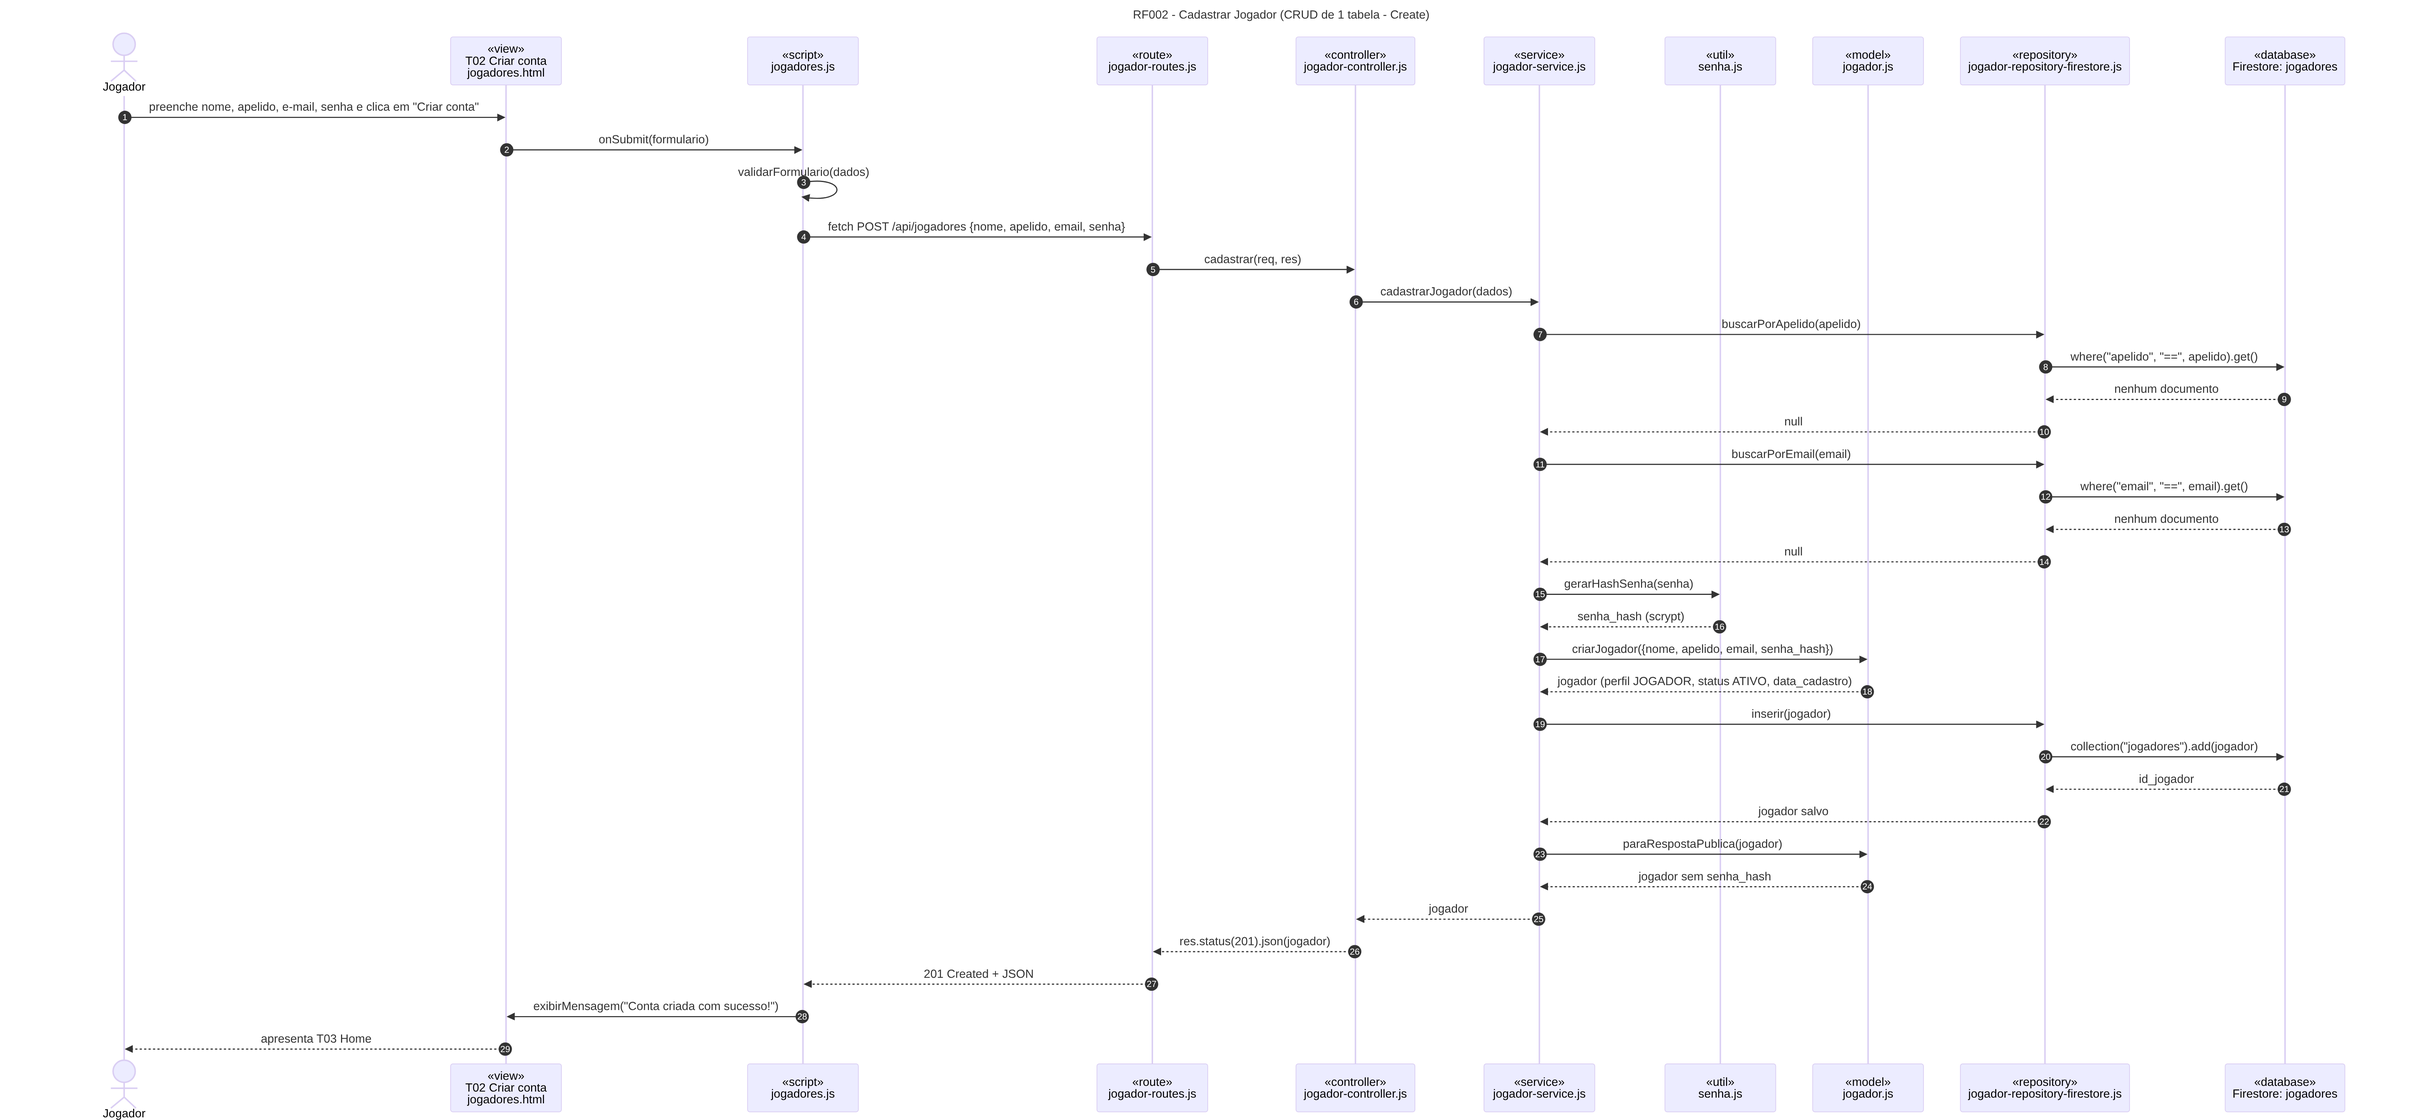
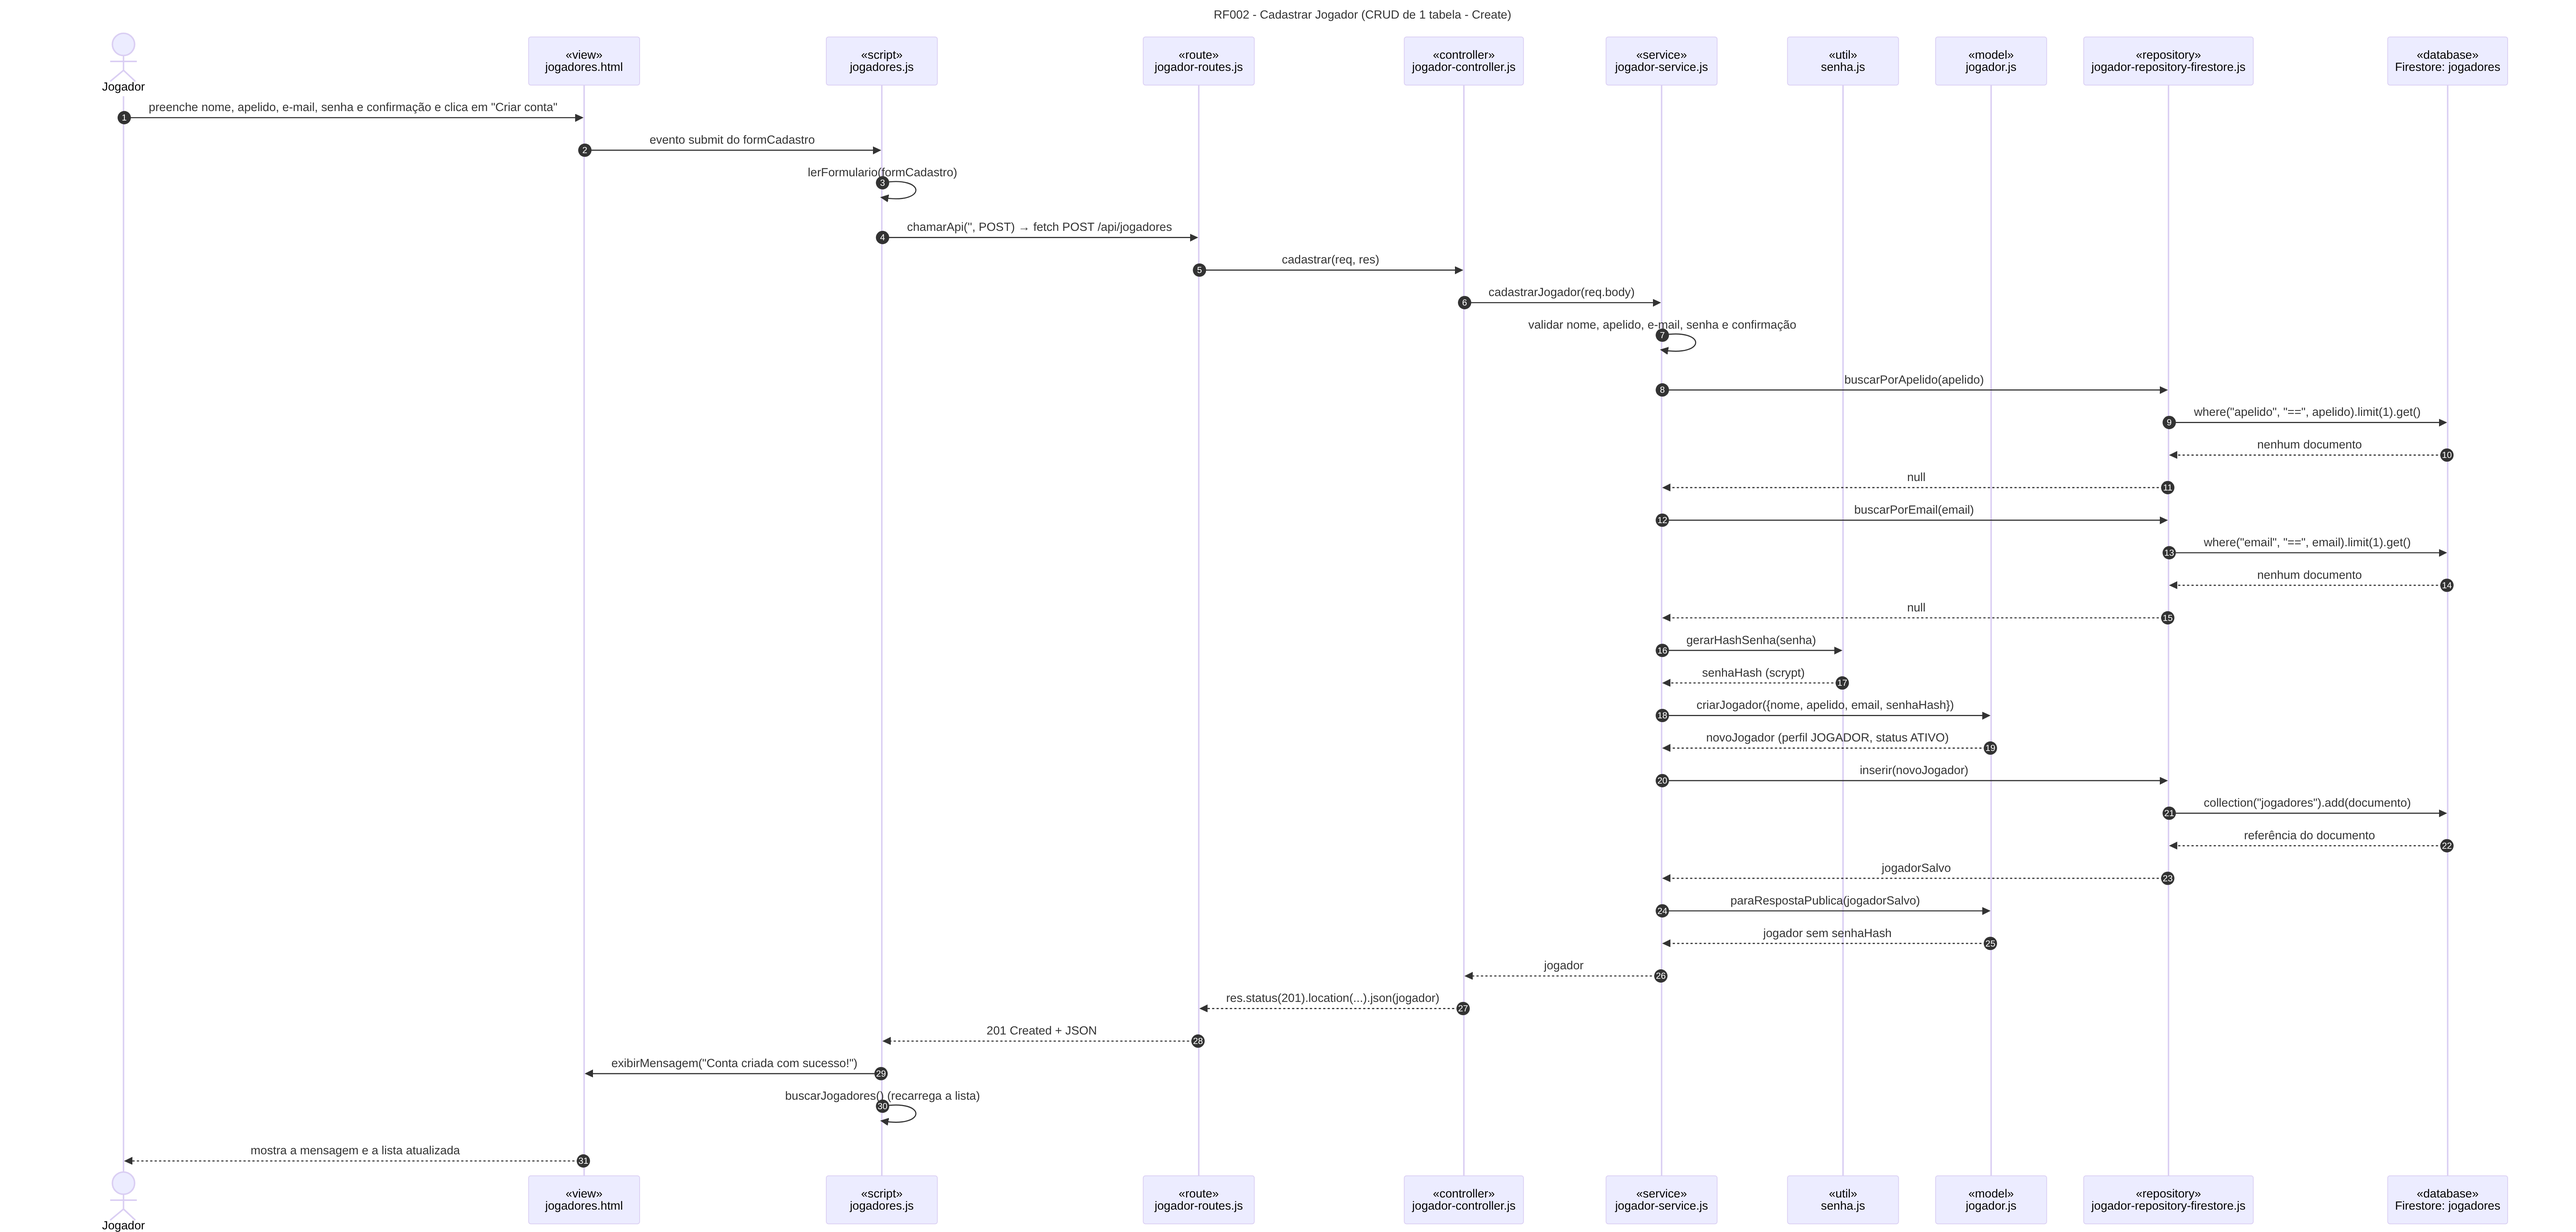
docs(diagramas): alinha sequências do CRUD de Jogador ao código
Os diagramas de Cadastrar, Consultar, Alterar e Excluir Jogador passam
a seguir o jogadores.js (eventos submit, lerFormulario e chamarApi), a
tela única jogadores.html e as validações feitas no service.

diff --git a/docs/diagramas/README.md b/docs/diagramas/README.md
@@ -272,7 +272,7 @@ title: "RF002 - Cadastrar Jogador (CRUD de 1 tabela - Create)"
 sequenceDiagram
     autonumber
     actor U as Jogador
-    participant T as «view»<br/>T02 Criar conta<br/>jogadores.html
+    participant T as «view»<br/>jogadores.html
     participant S as «script»<br/>jogadores.js
     participant R as «route»<br/>jogador-routes.js
     participant C as «controller»<br/>jogador-controller.js
@@ -282,35 +282,37 @@ sequenceDiagram
     participant RP as «repository»<br/>jogador-repository-firestore.js
     participant DB as «database»<br/>Firestore: jogadores
 
-    U->>T: preenche nome, apelido, e-mail, senha e clica em "Criar conta"
-    T->>S: onSubmit(formulario)
-    S->>S: validarFormulario(dados)
-    S->>R: fetch POST /api/jogadores {nome, apelido, email, senha}
+    U->>T: preenche nome, apelido, e-mail, senha e confirmação e clica em "Criar conta"
+    T->>S: evento submit do formCadastro
+    S->>S: lerFormulario(formCadastro)
+    S->>R: chamarApi('', POST) → fetch POST /api/jogadores
     R->>C: cadastrar(req, res)
-    C->>SV: cadastrarJogador(dados)
+    C->>SV: cadastrarJogador(req.body)
+    SV->>SV: validar nome, apelido, e-mail, senha e confirmação
     SV->>RP: buscarPorApelido(apelido)
-    RP->>DB: where("apelido", "==", apelido).get()
+    RP->>DB: where("apelido", "==", apelido).limit(1).get()
     DB-->>RP: nenhum documento
     RP-->>SV: null
     SV->>RP: buscarPorEmail(email)
-    RP->>DB: where("email", "==", email).get()
+    RP->>DB: where("email", "==", email).limit(1).get()
     DB-->>RP: nenhum documento
     RP-->>SV: null
     SV->>H: gerarHashSenha(senha)
-    H-->>SV: senha_hash (scrypt)
-    SV->>M: criarJogador({nome, apelido, email, senha_hash})
-    M-->>SV: jogador (perfil JOGADOR, status ATIVO, data_cadastro)
-    SV->>RP: inserir(jogador)
-    RP->>DB: collection("jogadores").add(jogador)
-    DB-->>RP: id_jogador
-    RP-->>SV: jogador salvo
-    SV->>M: paraRespostaPublica(jogador)
-    M-->>SV: jogador sem senha_hash
+    H-->>SV: senhaHash (scrypt)
+    SV->>M: criarJogador({nome, apelido, email, senhaHash})
+    M-->>SV: novoJogador (perfil JOGADOR, status ATIVO)
+    SV->>RP: inserir(novoJogador)
+    RP->>DB: collection("jogadores").add(documento)
+    DB-->>RP: referência do documento
+    RP-->>SV: jogadorSalvo
+    SV->>M: paraRespostaPublica(jogadorSalvo)
+    M-->>SV: jogador sem senhaHash
     SV-->>C: jogador
-    C-->>R: res.status(201).json(jogador)
+    C-->>R: res.status(201).location(...).json(jogador)
     R-->>S: 201 Created + JSON
     S->>T: exibirMensagem("Conta criada com sucesso!")
-    T-->>U: apresenta T03 Home
+    S->>S: buscarJogadores() (recarrega a lista)
+    T-->>U: mostra a mensagem e a lista atualizada
 ```
 
 <a id="04-seq-consultar-jogador"></a>
@@ -326,7 +328,7 @@ title: "RF003 - Consultar Jogador (CRUD de 1 tabela - Read)"
 sequenceDiagram
     autonumber
     actor U as Jogador
-    participant T as «view»<br/>T05 Buscar jogadores<br/>jogadores.html
+    participant T as «view»<br/>jogadores.html
     participant S as «script»<br/>jogadores.js
     participant R as «route»<br/>jogador-routes.js
     participant C as «controller»<br/>jogador-controller.js
@@ -335,39 +337,40 @@ sequenceDiagram
     participant RP as «repository»<br/>jogador-repository-firestore.js
     participant DB as «database»<br/>Firestore: jogadores
 
-    U->>T: digita parte do nome ou do apelido
-    T->>S: onBuscar(texto)
-    S->>R: fetch GET /api/jogadores?busca=texto
+    U->>T: digita parte do nome ou do apelido e clica em "Buscar"
+    T->>S: evento submit do formBusca
+    S->>S: buscarJogadores(texto)
+    S->>R: chamarApi('?busca=texto') → fetch GET /api/jogadores?busca=texto
     R->>C: listar(req, res)
     C->>SV: buscarJogadores(texto)
     SV->>RP: listarAtivos()
-    RP->>DB: where("status", "==", "ATIVO").get()
+    RP->>DB: where("status", "==", "ATIVO").where("data_exclusao", "==", null).get()
     DB-->>RP: documentos
     RP-->>SV: jogadores ativos
-    SV->>SV: filtrar por nome ou apelido que contenha o texto
-    SV->>M: paraRespostaPublica(jogadores)
-    M-->>SV: lista sem senha_hash
+    SV->>SV: filtrar por nome ou apelido e ordenar por nome
+    SV->>M: paraRespostaPublica(jogador) para cada um
+    M-->>SV: jogadores sem senhaHash
     SV-->>C: lista de jogadores
     C-->>R: res.status(200).json(lista)
     R-->>S: 200 OK + JSON
-    S->>T: renderizarLista(lista)
-    T-->>U: apresenta nome e apelido de cada jogador
-    U->>T: clica em um jogador
-    T->>S: onSelecionar(idJogador)
-    S->>R: fetch GET /api/jogadores/:id
+    S->>T: monta a lista com nome, apelido e botão "Editar"
+    T-->>U: apresenta os jogadores encontrados
+    U->>T: clica em "Editar" em um jogador
+    T->>S: abrirEdicao(id)
+    S->>R: chamarApi('/id') → fetch GET /api/jogadores/:id
     R->>C: consultar(req, res)
     C->>SV: consultarJogador(id)
     SV->>RP: buscarPorId(id)
-    RP->>DB: doc("jogadores/" + id).get()
+    RP->>DB: doc(id).get()
     DB-->>RP: documento
     RP-->>SV: jogador
     SV->>M: paraRespostaPublica(jogador)
-    M-->>SV: jogador sem senha_hash
+    M-->>SV: jogador sem senhaHash
     SV-->>C: jogador
     C-->>R: res.status(200).json(jogador)
     R-->>S: 200 OK + JSON
-    S->>T: renderizarPerfil(jogador)
-    T-->>U: apresenta T07 Perfil do jogador
+    S->>T: preenche o formulário de edição
+    T-->>U: apresenta nome, apelido, e-mail e foto do jogador
 ```
 
 <a id="05-seq-alterar-jogador"></a>
@@ -383,7 +386,7 @@ title: "RF004 - Alterar Jogador (CRUD de 1 tabela - Update)"
 sequenceDiagram
     autonumber
     actor U as Jogador
-    participant T as «view»<br/>T17 Editar perfil<br/>jogadores.html
+    participant T as «view»<br/>jogadores.html
     participant S as «script»<br/>jogadores.js
     participant R as «route»<br/>jogador-routes.js
     participant C as «controller»<br/>jogador-controller.js
@@ -393,33 +396,35 @@ sequenceDiagram
     participant RP as «repository»<br/>jogador-repository-firestore.js
     participant DB as «database»<br/>Firestore: jogadores
 
-    U->>T: altera foto, nome, apelido ou senha e clica em "Salvar"
-    T->>S: onSalvar(formulario)
-    S->>S: validarFormulario(dados)
-    S->>R: fetch PATCH /api/jogadores/:id {nome, apelido, fotoUrl, senha}
+    U->>T: altera nome, apelido, foto ou senha e clica em "Salvar"
+    T->>S: evento submit do formEdicao
+    S->>S: lerFormulario(formEdicao), sem id e e-mail
+    S->>R: chamarApi('/id', PATCH) → fetch PATCH /api/jogadores/:id
     R->>C: alterar(req, res)
-    C->>SV: alterarJogador(id, dados)
+    C->>SV: alterarJogador(id, req.body)
     SV->>RP: buscarPorId(id)
-    RP->>DB: doc("jogadores/" + id).get()
+    RP->>DB: doc(id).get()
     DB-->>RP: documento
-    RP-->>SV: jogador atual
+    RP-->>SV: jogadorAtual
+    SV->>SV: validar nome, apelido, foto e senha enviados
     SV->>RP: buscarPorApelido(novoApelido)
-    RP->>DB: where("apelido", "==", novoApelido).get()
+    RP->>DB: where("apelido", "==", novoApelido).limit(1).get()
     DB-->>RP: nenhum documento
     RP-->>SV: null (apelido livre)
     SV->>H: gerarHashSenha(novaSenha)
-    H-->>SV: novo senha_hash
+    H-->>SV: novo senhaHash
     SV->>RP: atualizar(id, alteracoes)
-    RP->>DB: doc("jogadores/" + id).update(alteracoes)
-    DB-->>RP: ok
-    RP-->>SV: jogador atualizado
-    SV->>M: paraRespostaPublica(jogador)
-    M-->>SV: jogador sem senha_hash
+    RP->>DB: doc(id).update(alteracoes) e doc(id).get()
+    DB-->>RP: documento atualizado
+    RP-->>SV: jogadorAtualizado
+    SV->>M: paraRespostaPublica(jogadorAtualizado)
+    M-->>SV: jogador sem senhaHash
     SV-->>C: jogador
     C-->>R: res.status(200).json(jogador)
     R-->>S: 200 OK + JSON
-    S->>T: exibirMensagem("Perfil atualizado com sucesso!")
-    T-->>U: apresenta T07 Perfil do jogador
+    S->>T: fecharEdicao() e exibirMensagem("Perfil atualizado com sucesso!")
+    S->>S: buscarJogadores() (recarrega a lista)
+    T-->>U: mostra a mensagem e a lista atualizada
 ```
 
 <a id="06-seq-excluir-jogador"></a>
@@ -435,7 +440,7 @@ title: "RF005 - Excluir Jogador (CRUD de 1 tabela - Delete, exclusão lógica)"
 sequenceDiagram
     autonumber
     actor U as Jogador
-    participant T as «view»<br/>T07 Perfil do jogador<br/>jogadores.html
+    participant T as «view»<br/>jogadores.html
     participant S as «script»<br/>jogadores.js
     participant R as «route»<br/>jogador-routes.js
     participant C as «controller»<br/>jogador-controller.js
@@ -444,30 +449,28 @@ sequenceDiagram
     participant RP as «repository»<br/>jogador-repository-firestore.js
     participant DB as «database»<br/>Firestore: jogadores
 
-    U->>T: clica em "Excluir conta"
-    T->>S: onExcluir()
-    S->>T: abrirDialogoConfirmacao()
-    T-->>U: "Esta ação não pode ser desfeita. Digite sua senha para confirmar."
-    U->>T: informa a senha e confirma
-    T->>S: onConfirmarExclusao(senha)
-    S->>R: fetch DELETE /api/jogadores/:id {senha}
+    U->>T: na área de edição, digita a senha e clica em "Excluir conta"
+    T->>S: evento submit do formExclusao
+    S->>S: lerFormulario(formExclusao)
+    S->>R: chamarApi('/id', DELETE, {senha}) → fetch DELETE /api/jogadores/:id
     R->>C: excluir(req, res)
-    C->>SV: excluirJogador(id, senha)
+    C->>SV: excluirJogador(id, req.body.senha)
     SV->>RP: buscarPorId(id)
-    RP->>DB: doc("jogadores/" + id).get()
+    RP->>DB: doc(id).get()
     DB-->>RP: documento
     RP-->>SV: jogador
-    SV->>H: verificarSenha(senha, jogador.senha_hash)
+    SV->>H: verificarSenha(senha, jogador.senhaHash)
     H-->>SV: true
-    SV->>RP: atualizar(id, {data_exclusao: agora})
-    RP->>DB: doc("jogadores/" + id).update({data_exclusao})
+    SV->>RP: atualizar(id, {dataExclusao: agora})
+    RP->>DB: doc(id).update({data_exclusao})
     DB-->>RP: ok
     RP-->>SV: ok
     SV-->>C: ok
-    C-->>R: res.status(204).send()
+    C-->>R: res.status(204).end()
     R-->>S: 204 No Content
-    S->>T: encerrarSessao() e exibirMensagem("Conta excluída.")
-    T-->>U: apresenta T01 Entrar
+    S->>T: fecharEdicao() e exibirMensagem("Conta excluída.")
+    S->>S: buscarJogadores() (recarrega a lista, sem o jogador excluído)
+    T-->>U: mostra a mensagem e a lista atualizada
 ```
 
 <a id="07-seq-criar-partida"></a>
